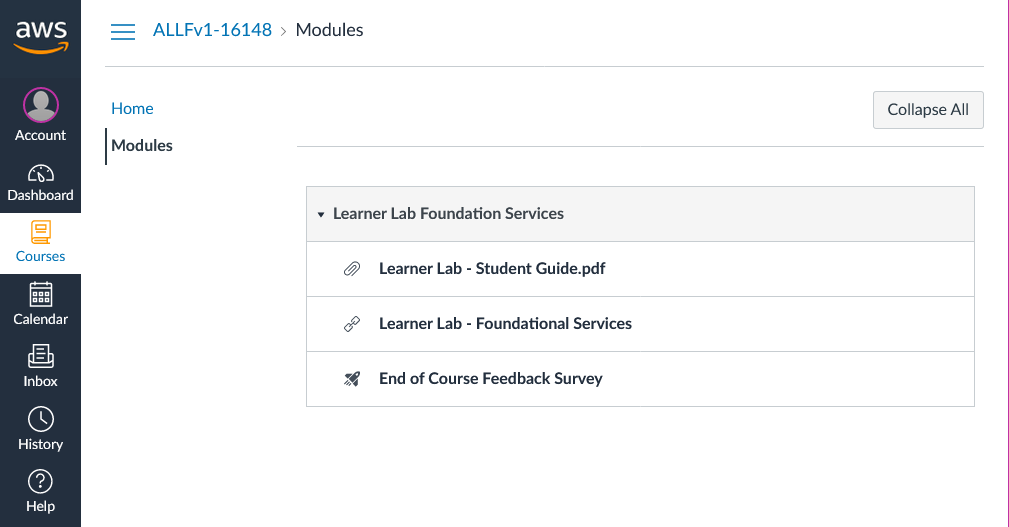
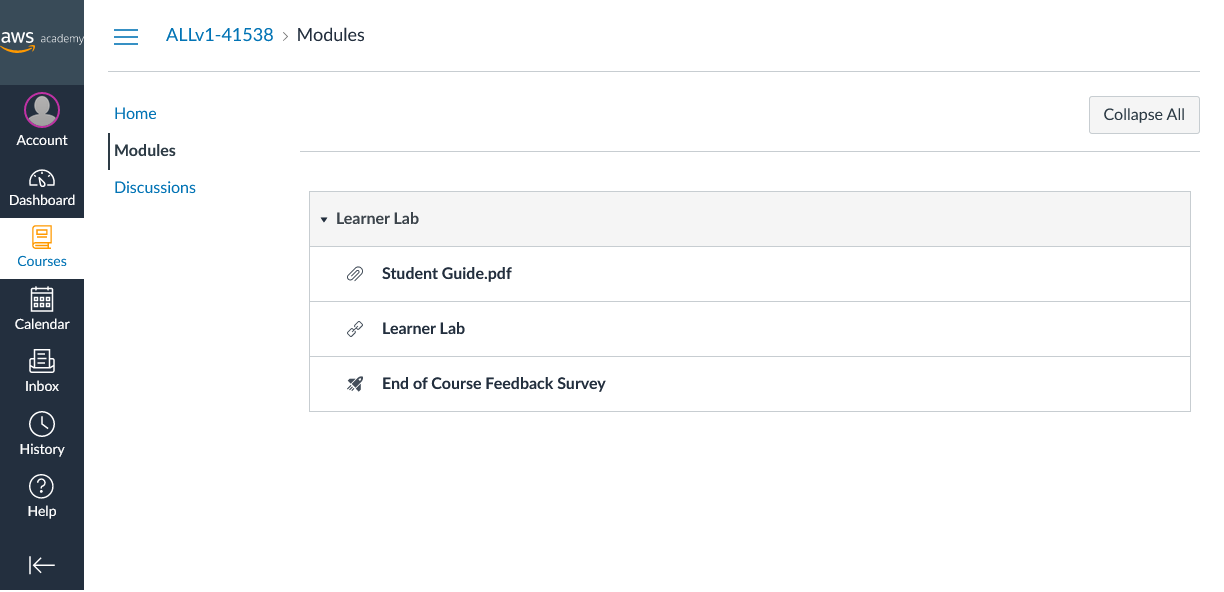
Update the instructions to start the learner lab

diff --git a/learner-lab.md b/learner-lab.md
@@ -1,10 +1,11 @@
 # Einstieg in das AWS Academy Learner Lab
 
-1. Folgen Sie in Moodle dem Link [AWS Academy Learner Lab](https://awsacademy.instructure.com/). Falls die Kursübersicht angezeigt wird, wählen Sie den Kurs **AWS Academy Learner Lab - Foundation Services**
+1. Folgen Sie in Moodle dem Link [AWS Academy Learner Lab](https://awsacademy.instructure.com/). Falls die Kursübersicht angezeigt wird, wählen Sie den Kurs **AWS Academy Learner Lab**.
 1. Wechseln Sie in die Modulansicht mittels **Modules**. ![](media/learner-lab-1.png)
-1. Öffnen Sie das **Learner Lab - Foundational Services** durch Anklicken.
-1. Starten Sie das Lab durch Klick auf den Button **Start Lab**. Das Starten kann mehrere Minuten brauchen.
-1. Nach dem erfolgreichen Start kann die AWS Management Console durch Klick auf den Link AWS neben dem grünen Punkt geöffnet werden. ![](media/learner-lab-2.png)
+1. Öffnen Sie das **Learner Lab** durch Anklicken.
+1. Bestätigen Sie die Nutzungsbedingungen durch Klick auf **I agree**. ![](media/learner-lab-4.png) ![](media/learner-lab-3.png)
+1. Starten Sie das Lab durch Klick auf den Button **Start Lab**. Das Starten kann mehrere Minuten brauchen. ![](media/learner-lab-2.png)
+1. Nach dem erfolgreichen Start kann die AWS Management Console durch Klick auf den Link AWS neben dem grünen Punkt geöffnet werden.
 
 Das Learner Lab läuft vier Stunden und wird danach automatisch beendet. Beim Beenden werden die EC2-Instanzen gestoppt.
 
